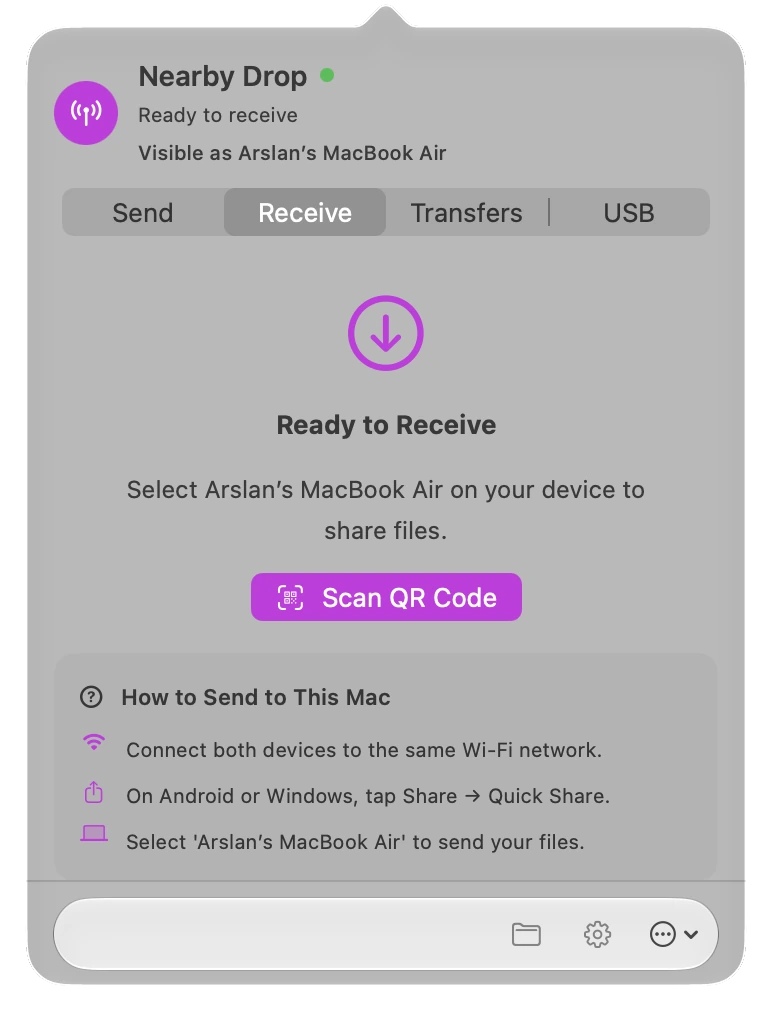
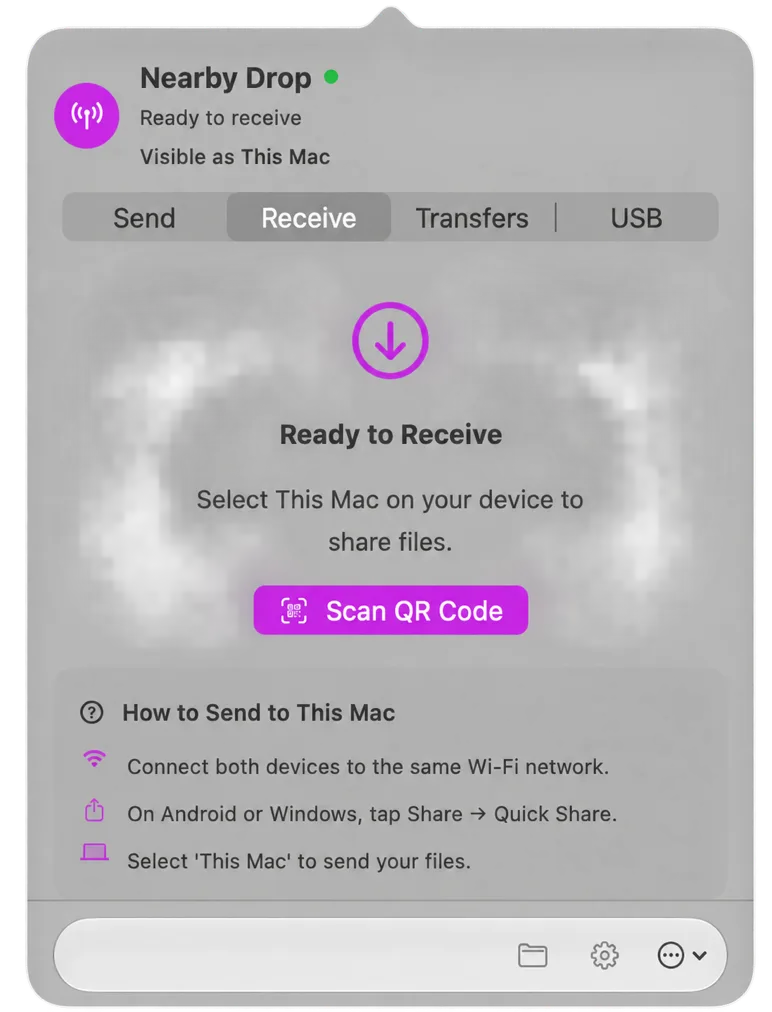
README got interrogated

diff --git a/docs/index.html b/docs/index.html
@@ -83,7 +83,7 @@
       <figure class="app-shot app-shot--hero">
         <picture class="app-shot__media">
           <source srcset="assets/nearby-drop-receive.webp" type="image/webp">
-          <img src="assets/nearby-drop-receive.png" width="772" height="1012" alt="Nearby Drop’s Receive screen, showing the Mac ready to receive files from Android." fetchpriority="high" decoding="async">
+            <img src="assets/nearby-drop-receive.png" width="772" height="1012" alt="Nearby Drop’s Receive screen, ready to receive Android files; the device name is redacted for privacy." fetchpriority="high" decoding="async">
         </picture>
         <figcaption><span class="caption-mark" aria-hidden="true"></span> Receive files in a clear menu bar window.</figcaption>
       </figure>

diff --git a/README.md b/README.md
@@ -1,8 +1,6 @@
 # Nearby Drop
 
-Move files between your Mac, Android, and compatible Windows devices.
-
-Nearby Drop is an Android file transfer app for Mac, with Quick Share, QR codes, USB MTP, and Finder sharing.
+Nearby Drop is a native macOS menu bar app for two-way file sharing between Mac and Android with Quick Share, QR codes, and USB MTP. It also supports compatible Windows Quick Share clients and Finder sharing.
 
 <p align="center">
   <a href="https://github.com/arslanbasharat-o-o/NearByDrop/actions/workflows/build.yml"><img alt="Build status" src="https://github.com/arslanbasharat-o-o/NearByDrop/actions/workflows/build.yml/badge.svg?branch=main"></a>
@@ -13,13 +11,13 @@ Nearby Drop is an Android file transfer app for Mac, with Quick Share, QR codes,
 
 **[Website](https://arslanbasharat-o-o.github.io/NearByDrop/)** · **[Download](https://github.com/arslanbasharat-o-o/NearByDrop/releases/latest)** · [Guides](https://arslanbasharat-o-o.github.io/NearByDrop/#guides) · [Report a problem](https://github.com/arslanbasharat-o-o/NearByDrop/issues) · [Contributing](CONTRIBUTING.md)
 
-Nearby Drop is a native macOS menu bar app for sharing files with Android phones and compatible Windows Quick Share clients. Send over Wi-Fi, scan or show a QR code, connect by USB, or use Finder’s Share menu.
+Send over Wi-Fi, scan or show a QR code, connect by USB, or share from Finder.
 
 ## Screenshots
 
 | Receive | Send |
 | :---: | :---: |
-| ![Nearby Drop’s Receive screen, ready for files from Android](docs/assets/nearby-drop-receive.png) | ![Nearby Drop’s Send screen, with file selection and QR sharing](docs/assets/nearby-drop-send.png) |
+| ![Nearby Drop’s Receive screen, ready for files from Android with the device name redacted](docs/assets/nearby-drop-receive.webp) | ![Nearby Drop’s Send screen, with file selection and QR sharing](docs/assets/nearby-drop-send.webp) |
 
 ## Similar names
 
